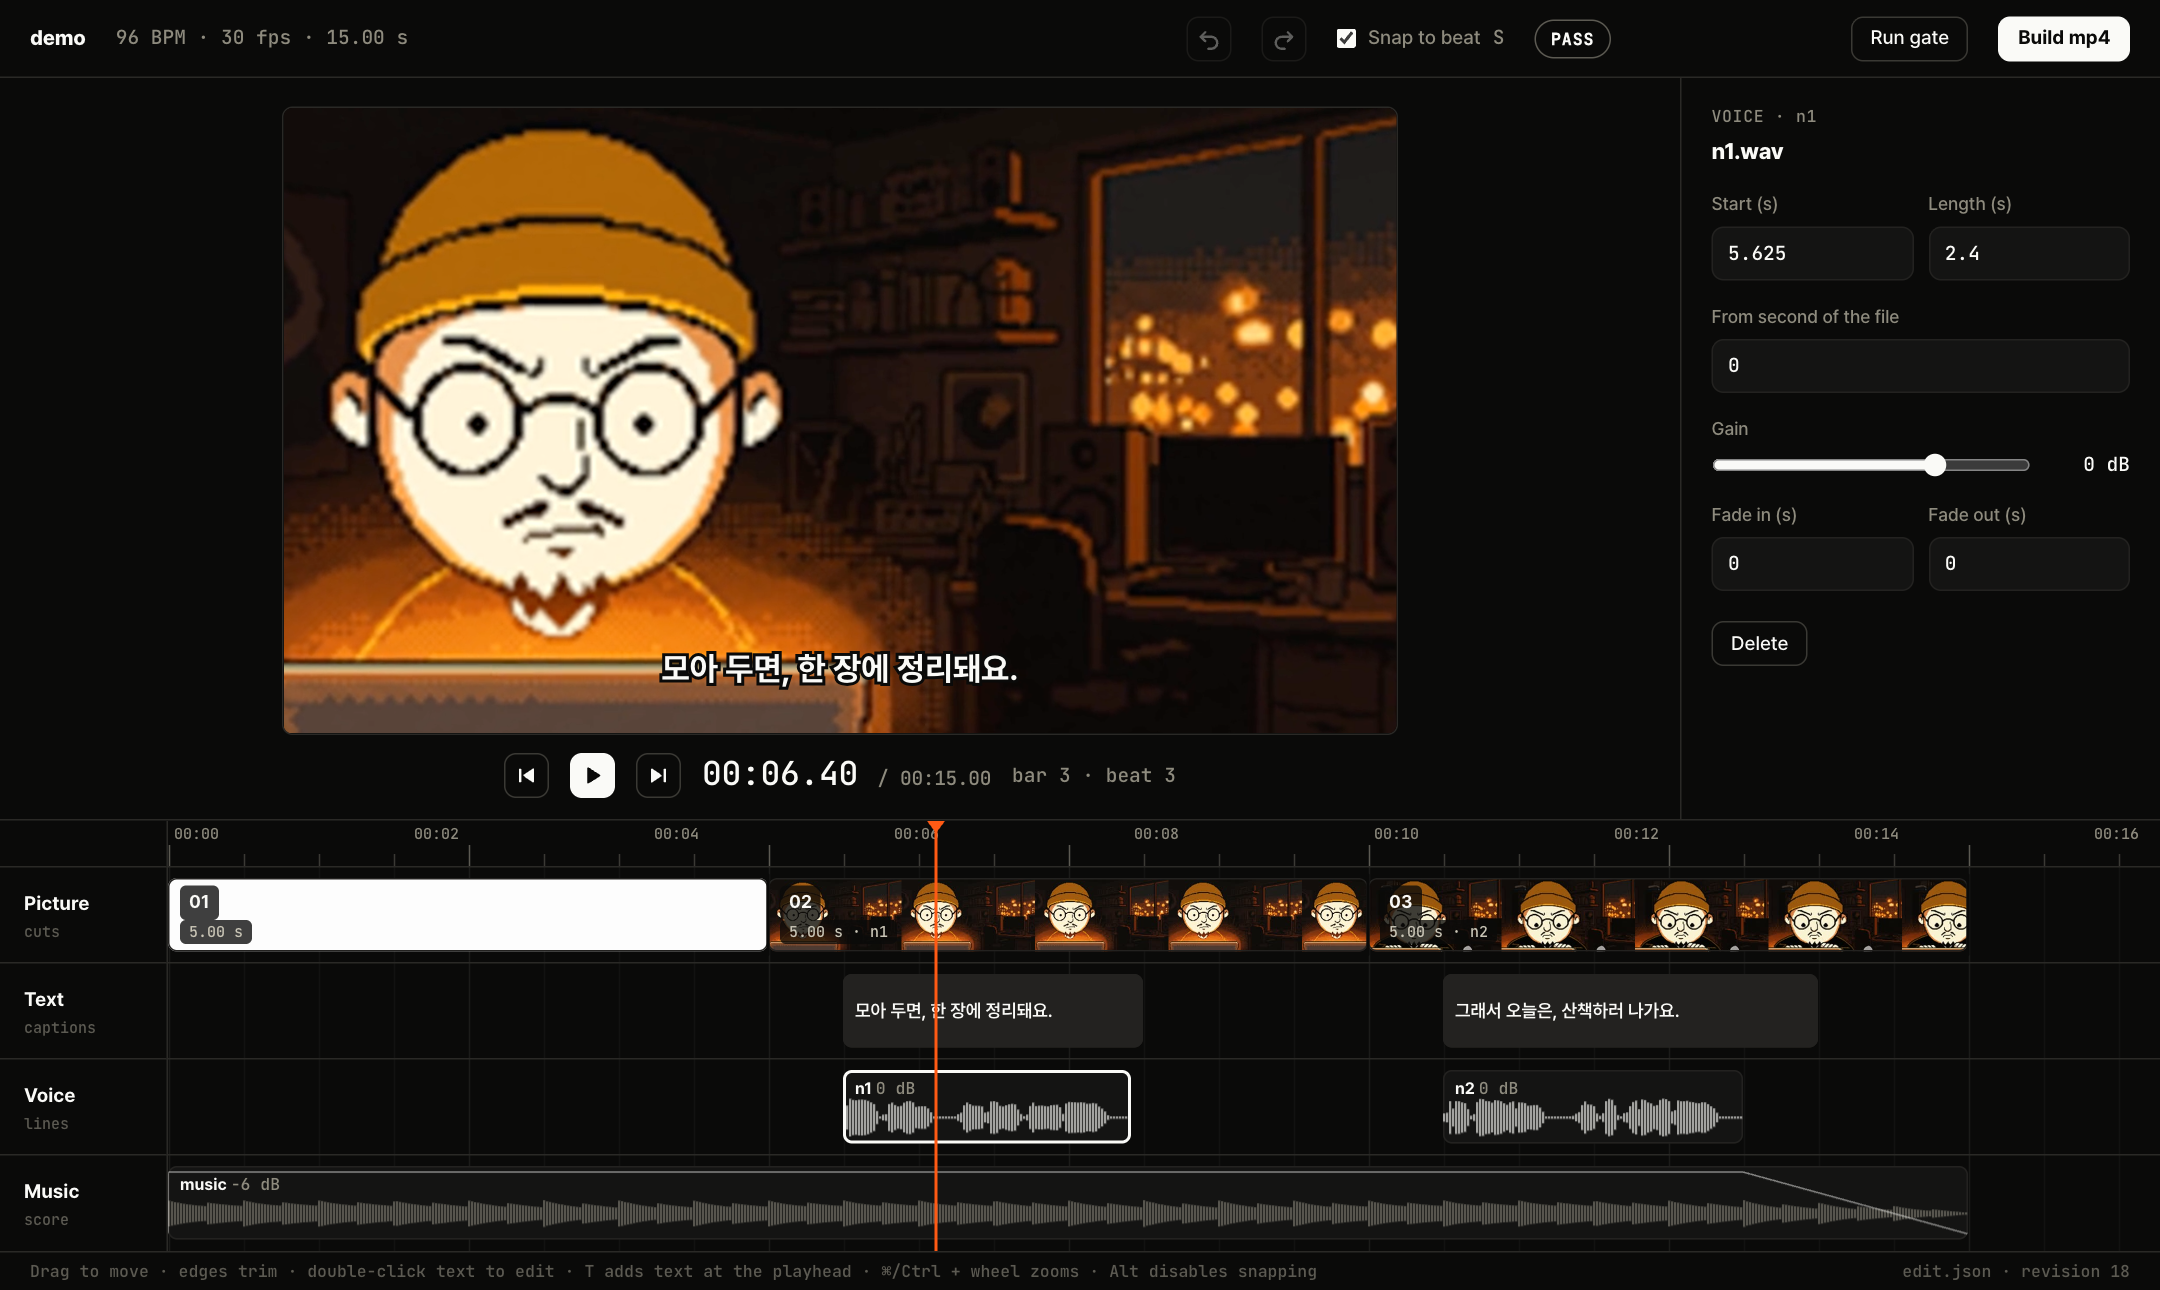
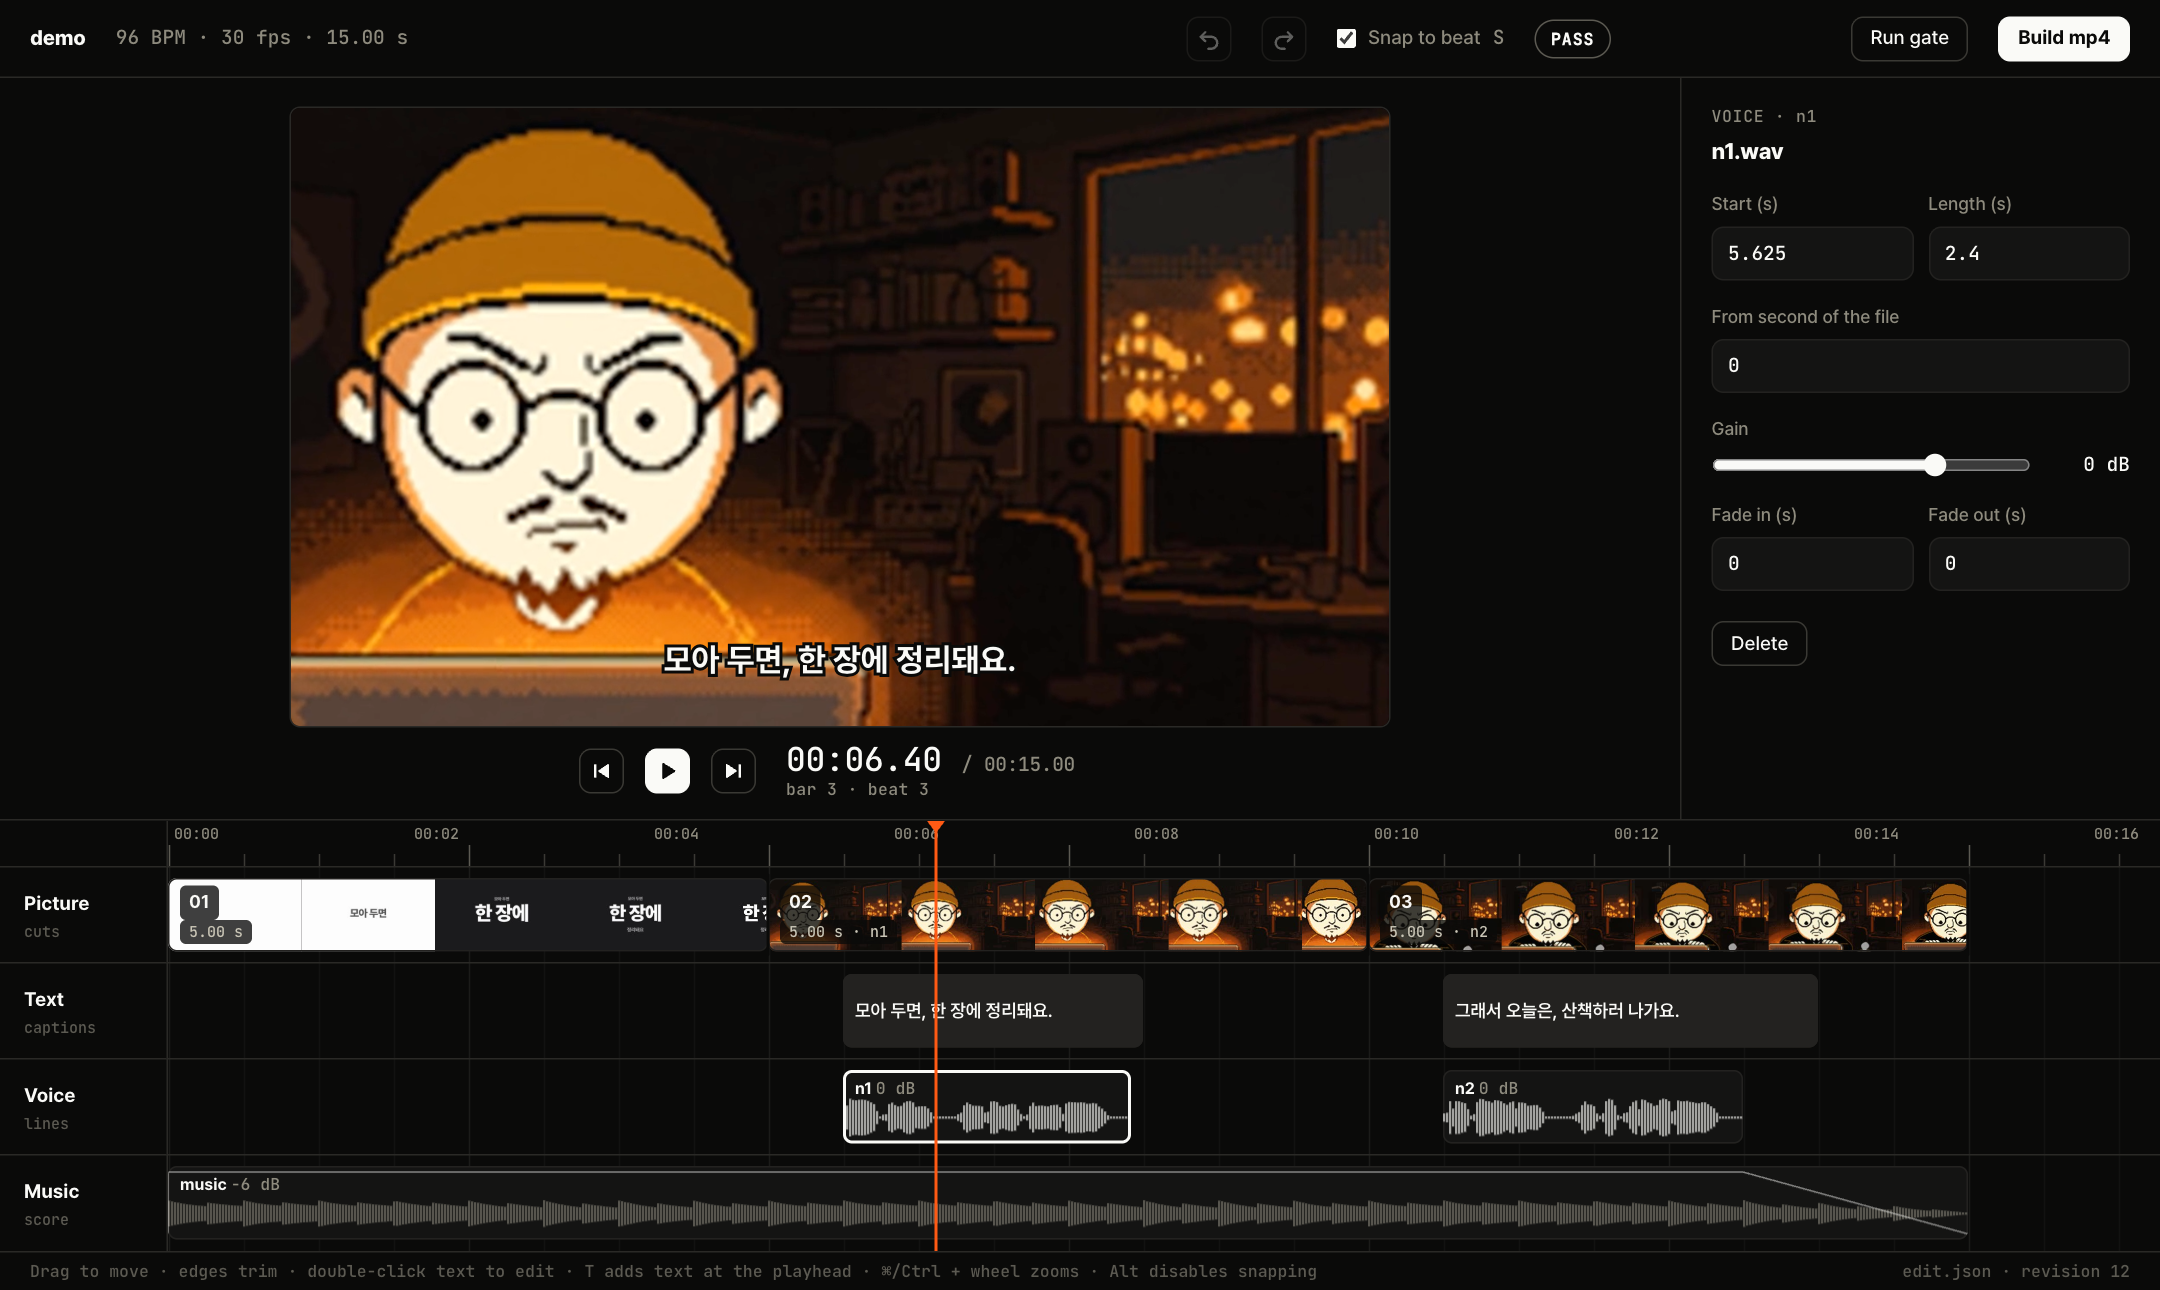
docs: current timeline editor screenshot; fix cut thumbnail strip (#9)
Every thumbnail layer had repeat-x, so the first frame tiled over the whole cut
and the strip showed one frame. Only the last layer repeats now.

diff --git a/skills/motion-video-production/timeline/editor.html b/skills/motion-video-production/timeline/editor.html
@@ -95,7 +95,7 @@ button, input, textarea, select { font: inherit; color: inherit; }
 .item .h:hover { background: rgba(250, 250, 247, .18); }
 .item .lab { position: absolute; left: 8px; right: 8px; top: 6px; font-size: 12px; font-weight: 700; white-space: nowrap; overflow: hidden; text-overflow: ellipsis; pointer-events: none; z-index: 1; }
 .item .sub { position: absolute; left: 8px; bottom: 5px; font: 500 10px/1 var(--mono); color: var(--ink-400); pointer-events: none; z-index: 1; }
-.cut { background-size: auto 100%; background-repeat: repeat-x; }
+.cut { background-size: auto 100%; }
 .cut .lab, .cut .sub { right: auto; max-width: calc(100% - 16px); background: rgba(10, 10, 9, .78); padding: 3px 6px; border-radius: 4px; }
 .cut .lab { top: 5px; } .cut .sub { bottom: 5px; color: var(--ink-300); }
 .text-item { background: var(--ink-700); }
@@ -267,7 +267,8 @@ function thumbStrip(c, s) {
   const h = 50, w = Math.round(h * 16 / 9), n = Math.max(1, Math.ceil(X(c.d) / w));
   const urls = [];
   for (let i = 0; i < Math.min(n, 12); i++) urls.push(`url('/api/thumb?src=${encodeURIComponent(c.src).replace(/'/g, '%27')}&t=${(s.at + (c.d * (c.rate ?? 1) * i) / n).toFixed(2)}')`);
-  return urls.join(',') + `;background-size:${w}px 100%;background-position:${urls.map((_, i) => `${i * w}px 0`).join(',')}`;
+  // one tile per frame; only the last layer repeats, to fill a strip longer than 12 tiles
+  return urls.join(',') + `;background-size:${w}px 100%;background-position:${urls.map((_, i) => `${i * w}px 0`).join(',')};background-repeat:${urls.map((_, i) => (i === urls.length - 1 ? 'repeat-x' : 'no-repeat')).join(',')}`;
 }
 
 function drawGrid(W) {
